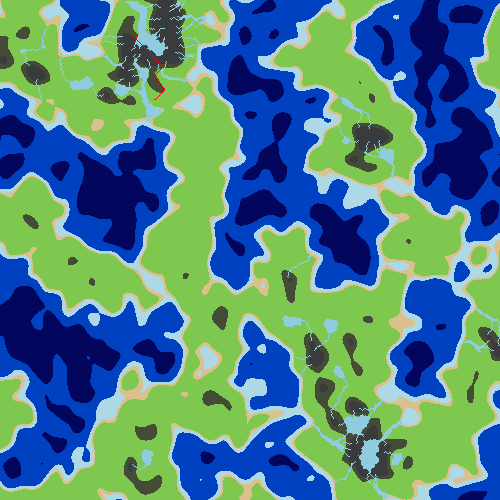
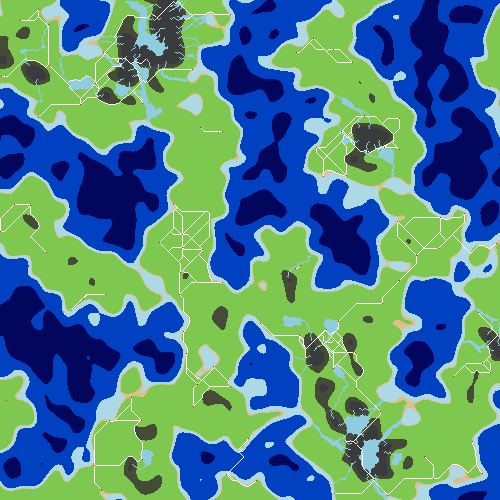
Roads and Settlements
Settlements now generate and roads are made between them.

diff --git a/world.py b/world.py
@@ -1,8 +1,11 @@
+import tools as tls
+import civilisations as c
+from data import *
+
 import random as r
 import time as t
 import math as m
 import opensimplex
-from data import *
 from typing import Tuple, List
 
 class World(object):
@@ -12,6 +15,8 @@ class World(object):
         self._height = height
         self._hmap = [[0 for i in range(width)] for i in range(height)]
         self._tmap = [["" for i in range(width)] for i in range(height)]
+        self._countries = []
+        self._settlements = []
 
     def get_adjacents(self, qpos: Tuple[int, int]) -> List[Tuple[int, int]]:
         qx, qy = qpos
@@ -28,6 +33,9 @@ class World(object):
     
     def get_name(self) -> str:
         return self.name
+    
+    def get_settlements(self) -> str:
+        return self._settlements
 
     def get_cost(self, pos1: Tuple[int, int], pos2: Tuple[int, int]) -> float:
         """
@@ -172,3 +180,70 @@ class World(object):
         print(f"Done! ({toc -tic:0.4f} seconds and {count} smoothings)")
         print("Terrain Generated!")
         self._tmap = tmap
+
+    def generate_civilisation(self, num_countries: int, num_settlements: int) -> None:
+        """
+        Generates settlements and countries into the world
+        Parameters:
+            num_countries = number of countries to group settlements into
+            num_settlements = number of settlements
+        """
+        #Cities will either be next to river or surrounded by at least 4 grassland tiles
+        print("Finding potential settlement locations...")
+        tic = t.perf_counter()
+        settlement_poss = []
+        scores = []
+        tmap = self.get_tmap()
+        for y, row in enumerate(tmap):
+            for x, tval in enumerate(row):
+                if tval not in ["River", "Shallow Ocean", "Medium Ocean", "Deep Ocean"]:
+                    adj_tvals = self.get_tvals(self.get_adjacents((x,y)))
+                    if "River" in adj_tvals or adj_tvals.count("Flatlands") + adj_tvals.count("Beach") >= 4:
+                        score = adj_tvals.count("Flatlands")
+                        score += adj_tvals.count("River") * 50
+                        score += adj_tvals.count("Shallow Ocean") * 25
+                        settlement_poss.append((x,y))
+                        scores.append(score)
+        toc = t.perf_counter()
+        print(f"Done! ({toc - tic:0.4f} seconds, {len(settlement_poss)} locations found)")
+
+        print("Choosing settlement locations...")
+        tic = t.perf_counter()
+        for i in range(num_settlements):
+            if settlement_poss:
+                #Pick one and remove all those close to the city
+                spos = r.choices(settlement_poss, weights = scores)[0]
+                for i, pos in enumerate(settlement_poss):
+                    if self.distance(spos, pos) < SETTLEMENT_DISTANCE:
+                        settlement_poss.pop(i)
+                        scores.pop(i)
+                name = tls.generate_name(6)
+                settlement = c.Settlement(name, self, spos)
+                self._tmap[spos[1]][spos[0]] = "Settlement"
+                self._settlements.append(settlement)
+        toc = t.perf_counter()
+        print(f"Done! ({toc - tic:0.4f} seconds)")
+
+        print("Building Roads...")
+        tic = t.perf_counter()
+        #For each settlement pathfind to close (not all - it takes way too long) settlements
+        roads = {}
+        for start in self._settlements:
+            close_ends = [x for x in self._settlements if self.distance(start.get_position(), x.get_position()) < 50]
+            for end in close_ends:
+                roads_to_end = roads.get(end)
+                if start != end and (not roads_to_end or start not in roads_to_end):
+                    if not roads.get(start):
+                        roads[start] = [end]
+                    else:
+                        roads[start].append(end)
+                    path = tls.a_star_pathfinding(self, start.get_position(), end.get_position())
+                    for pos in path:
+                        if self.get_tvals([pos])[0] == "Settlement":
+                            if pos != path[0]:
+                                break
+                        else:
+                            self._tmap[pos[1]][pos[0]] = "Road"
+        toc = t.perf_counter()
+        print(f"Done! ({toc - tic:0.4f} seconds)")
+                        

diff --git a/tools.py b/tools.py
@@ -2,10 +2,9 @@ from data import *
 import png
 import random as r
 import heapq
-import world as w
 from typing import List, Tuple
 
-def hmap_to_png(world: w.World):
+def hmap_to_png(world: "World"):
     pnglist = []
     hmap = world.get_hmap()
     for row in hmap:
@@ -17,10 +16,10 @@ def hmap_to_png(world: w.World):
     image = png.from_array(pnglist, "L")
     image.save(f"{world.get_name()}_hmap.png")
 
-def tmap_to_png(world: w.World):
+def world_to_png(world: "World"):
     pnglist = []
-    tmap = world.get_tmap()
-    for y, row in enumerate(tmap):
+    cmap = world.get_tmap()
+    for y, row in enumerate(cmap):
         pngrow = []
         for x, tval in enumerate(row):
             colour = TERRAIN_COLOURS.get(tval)
@@ -29,7 +28,7 @@ def tmap_to_png(world: w.World):
     image = png.from_array(pnglist, "RGB")
     image.save(f"{world.get_name()}_tmap.png")
 
-def world_stats(world: w.World):
+def world_stats(world: "World"):
     print("World Analysis:")
     hmap = world.get_hmap()
     lowest = 1
@@ -72,7 +71,7 @@ class Priority_Queue:
     def get(self) -> "t":
         return heapq.heappop(self.elements)[1]
 
-def a_star_pathfinding(world: w.World, start: Tuple[int, int], 
+def a_star_pathfinding(world: "World", start: Tuple[int, int], 
     end: Tuple[int, int]) -> List[Tuple[int, int]]:
     frontier = Priority_Queue()
     frontier.put(start, 0)

diff --git a/data.py b/data.py
@@ -2,8 +2,8 @@
 TERRAIN_BOUNDS = {(0, 0.3):"Deep Ocean", 
                  (0.3, 0.45): "Medium Ocean",
                  (0.45, 0.5): "Shallow Ocean",
-                 (0.5, 0.525): "Beach",
-                 (0.525, 0.75): "Flatlands",
+                 (0.5, 0.51): "Beach",
+                 (0.51, 0.75): "Flatlands",
                  (0.75, 0.8): "Hills",
                  (0.8, 1.1): "Mountains"}
 
@@ -14,7 +14,10 @@ TERRAIN_COLOURS = {"Deep Ocean": (2, 7, 93),
                   "Flatlands": (126, 200, 80),
                   "Hills": (68, 76, 56),
                   "Mountains": (58, 59, 60),
-                  "River": (144, 204, 224)}
+                  "River": (144, 204, 224),
+                  "Settlement": (255, 0, 0),
+                  "Road": (255, 255, 255),
+                  "Sea Route": (255, 255, 255)}
 
 #Path-finding
 #Represents the relative costs of moving through a terrain type (higher => less likely to pathfind through)
@@ -25,4 +28,8 @@ PATH_COSTS = {"Deep Ocean": 10,
               "Flatlands": 1,
               "Hills": 2,
               "Mountains": 3,
-              "River": 3} 
+              "River": 3,
+              "Settlement": 1,
+              "Road": 0}
+
+SETTLEMENT_DISTANCE = 20

diff --git a/civilisations.py b/civilisations.py
@@ -1,0 +1,44 @@
+from itertools import count
+import world as w
+import tools as tls
+from typing import List, Tuple
+class Country(object):
+    def __init__(self, name:str, colour: Tuple[int]) -> None:
+        self.name = name
+        self.colour = colour
+        
+
+class Settlement(object):
+    def __init__(self, name:str, world: "w.World", position: Tuple[int, int]) -> None:
+        self.name = name
+        self.world = world
+        self.position = position
+        self.tags = []
+        self.country = None
+        self.population = []
+        self.buildings = {}
+        self.stores = {}
+    
+    def get_population_size(self) -> int:
+        return len(self.population)
+    
+    def get_position(self) -> Tuple[int, int]:
+        return self.position
+    
+    def get_tags(self) -> List[str]:
+        return self.tags
+    
+    def get_country(self) -> str:
+        return self.country
+
+    def set_country(self, country:Country) -> None:
+        self.country = country
+
+    def generate(self):
+        pass
+
+    def update(self):
+        pass
+    
+    def __repr__(self) -> str:
+        return "Settlement(" + self.name + ")"

diff --git a/goblins.py b/goblins.py
@@ -6,4 +6,5 @@ import random as r
 r.seed("hny")
 test = w.World("test")
 test.generate_terrain(75, 5)
-tls.tmap_to_png(test)
+test.generate_civilisation(1, 100)
+tls.world_to_png(test)
